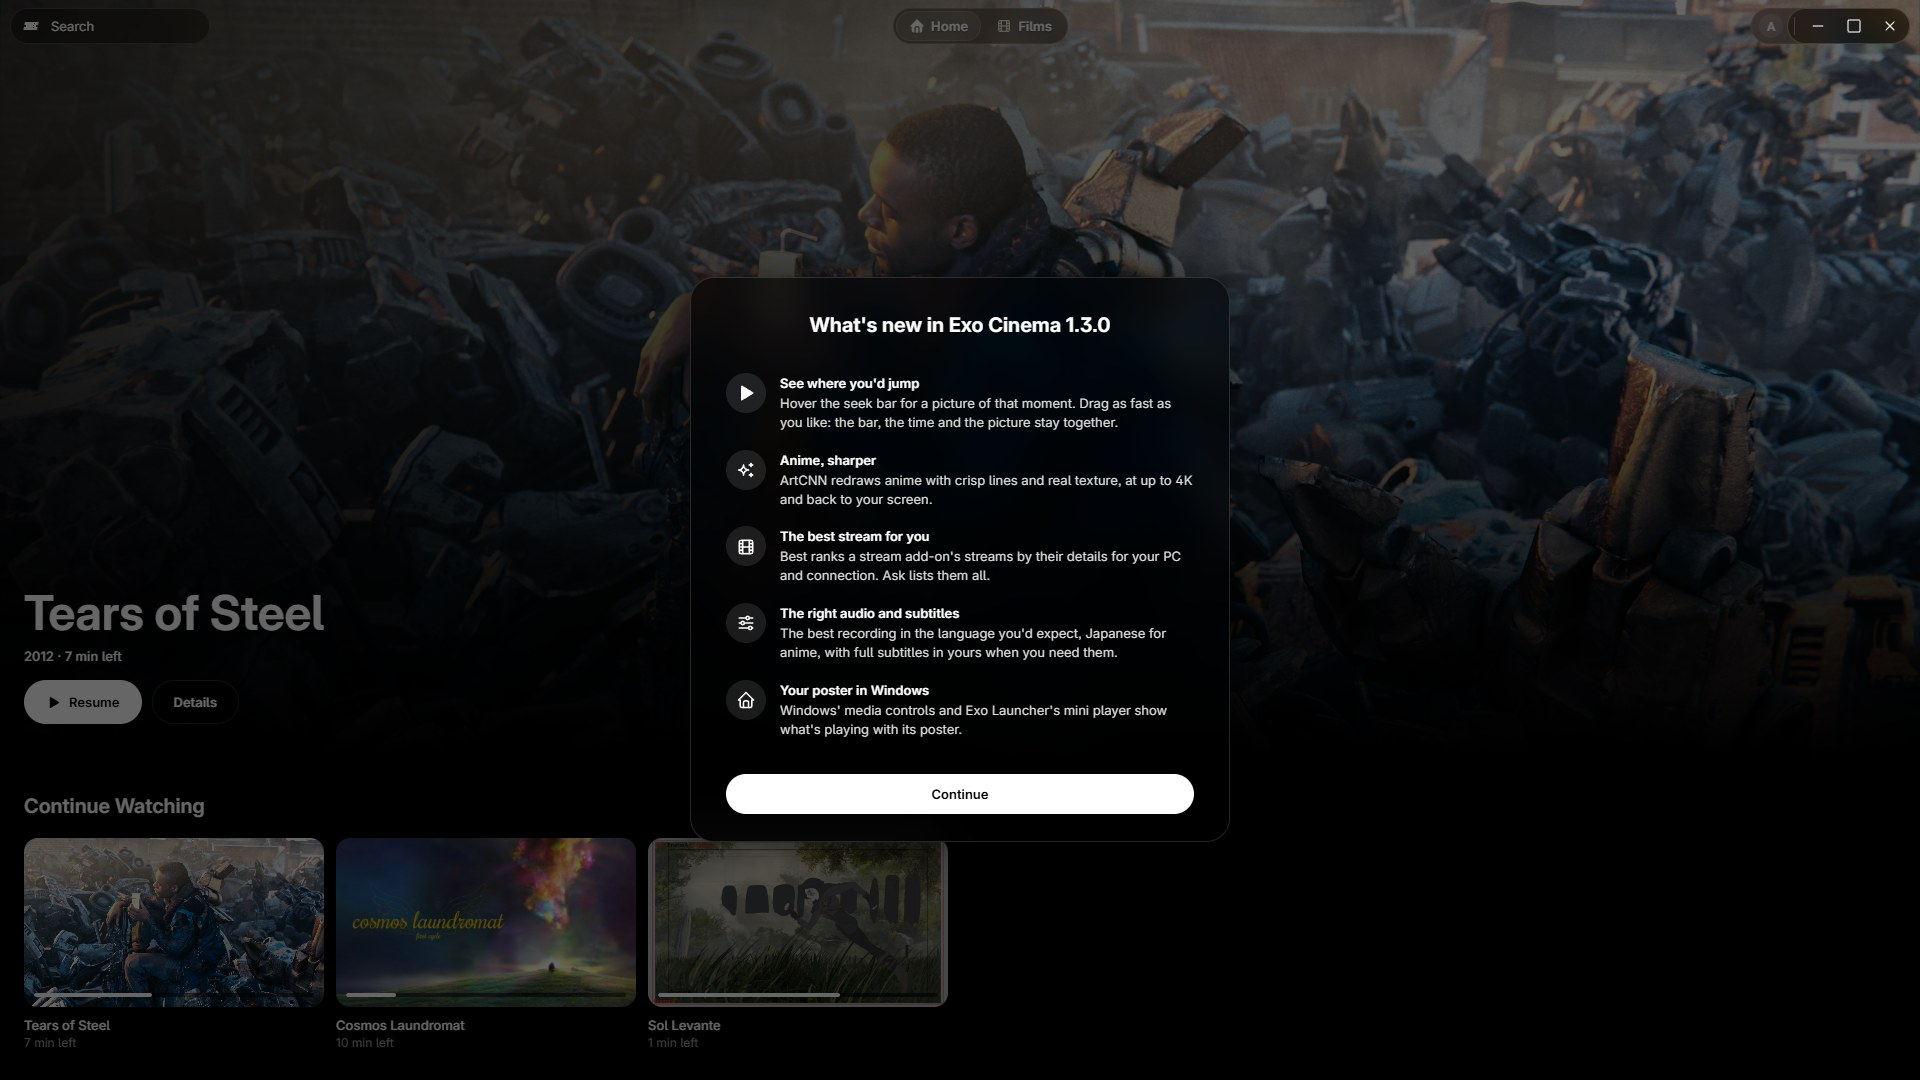
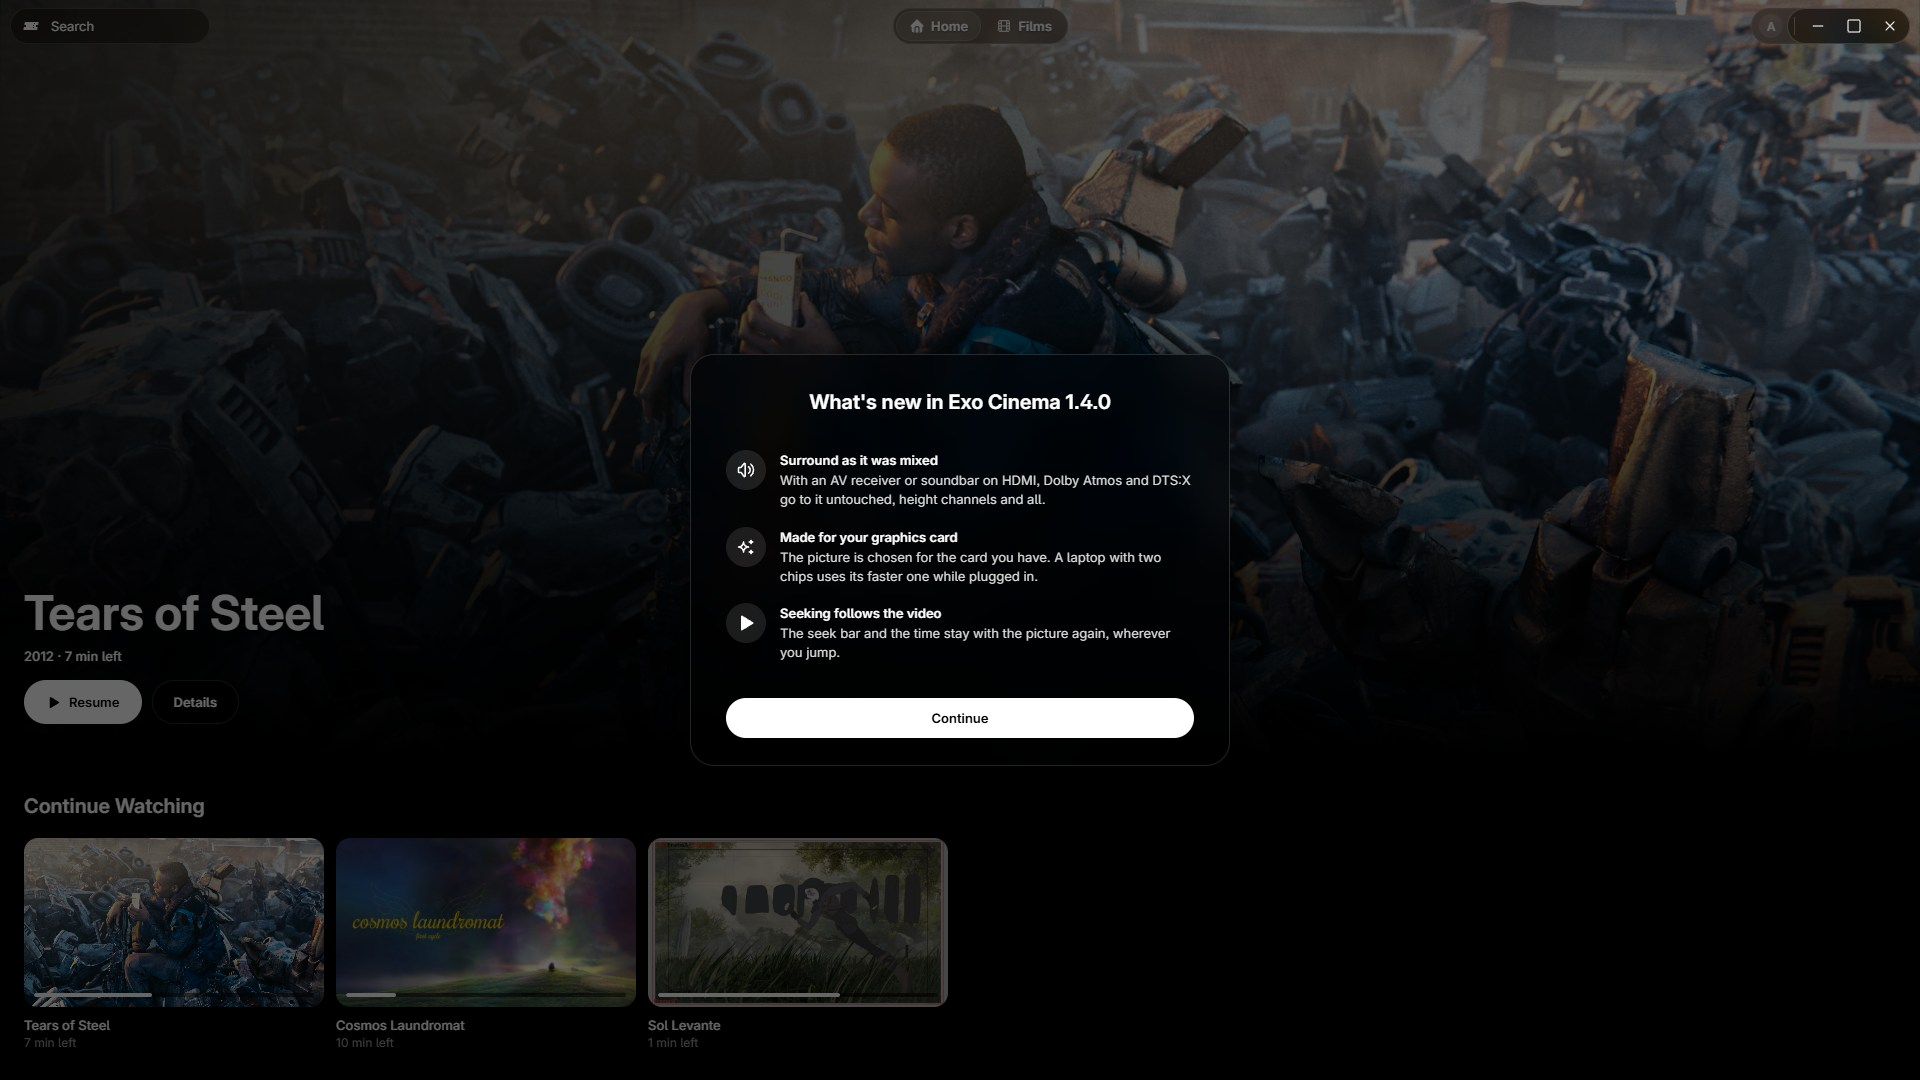
README: What's New picture of 1.4.0

Changed region(s): [[0.3438, 0.2444, 0.6562, 0.7944]]

diff --git a/README.md b/README.md
@@ -70,7 +70,7 @@ Get-FileHash .\ExoCinema-Setup.exe -Algorithm SHA256
 - **Account:** your Jellyfin account page and Sign out.
 - **About:** your version, what's new, and Check for updates.
 
-![What's new in Exo Cinema 1.3.0, shown once after an update](docs/media/whats-new.jpg)
+![What's new in Exo Cinema 1.4.0, shown once after an update](docs/media/whats-new.jpg)
 
 ## How it works
 
